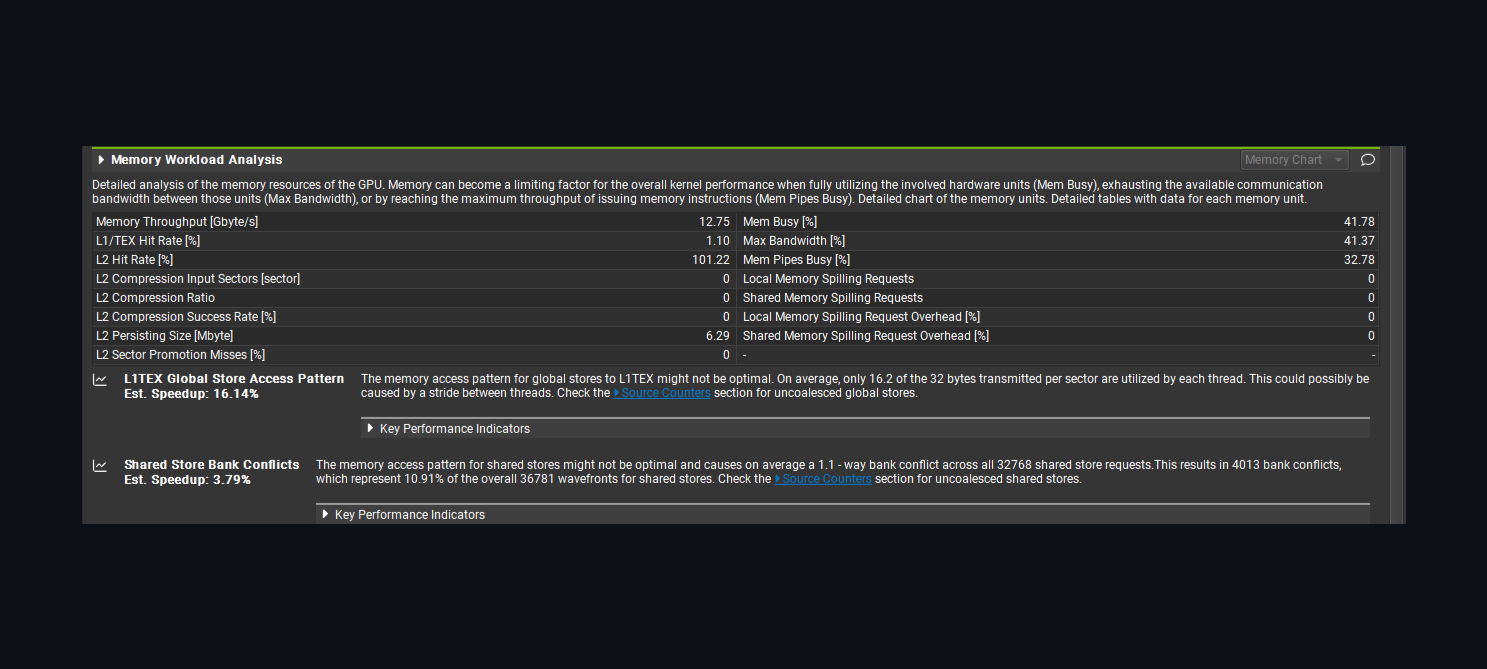
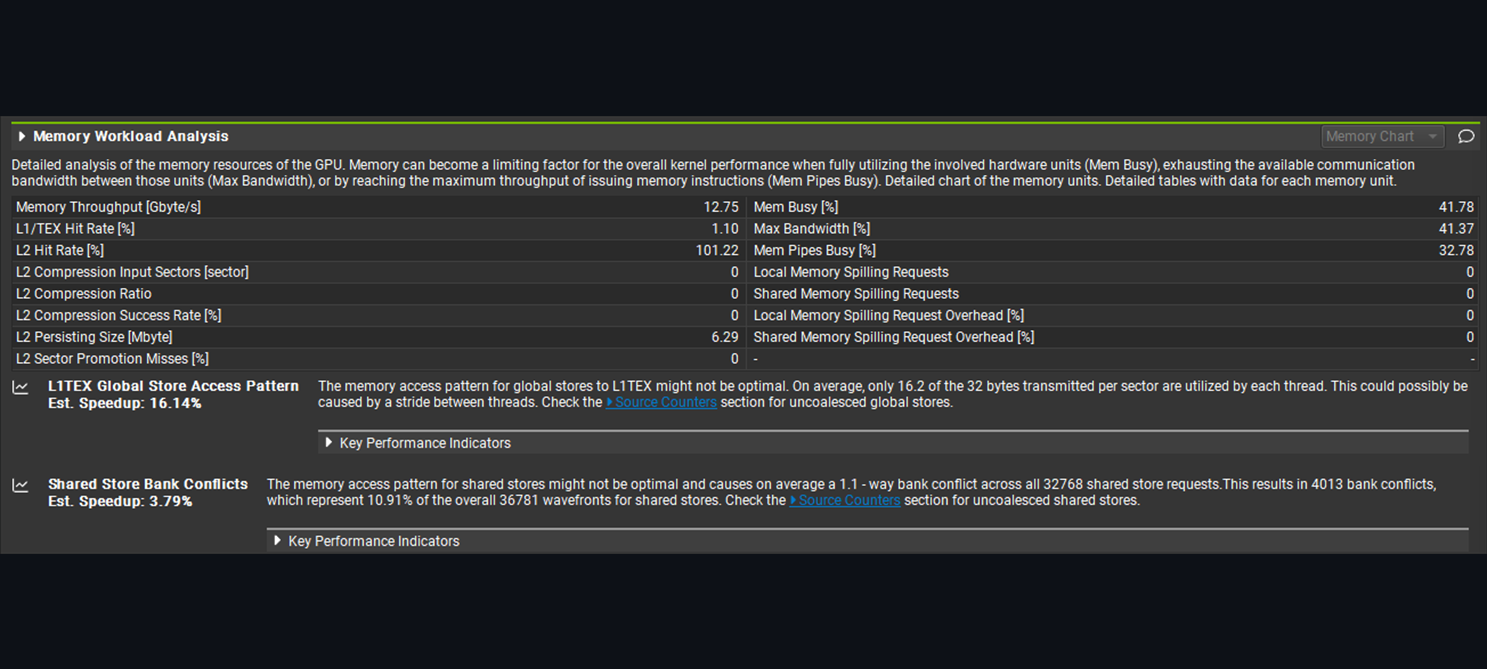
Replace cropped NCU comparison captures

Changed region(s): [[0.0, 0.1495, 1.0, 0.8371]]

diff --git a/README.md b/README.md
@@ -103,10 +103,10 @@ Actual Nsight Compute GUI captures:
 
 | Section | Before | After |
 |---|---|---|
-| GPU Speed of Light | <img src="docs/profiling/gpu_speed_of_light.png" width="420" height="122" alt="before GPU Speed of Light"> | <img src="docs/profiling/ncu_compare/after_gpu_sol.png" width="420" height="122" alt="after GPU Speed of Light"> |
-| Roofline | <img src="docs/profiling/roofline_fp32.png" width="420" height="185" alt="before roofline"> | <img src="docs/profiling/ncu_compare/after_roofline.png" width="420" height="185" alt="after roofline"> |
-| Memory Workload | <img src="docs/profiling/memory_workload.png" width="420" height="189" alt="before memory workload"> | <img src="docs/profiling/ncu_compare/after_memory_workload.png" width="420" height="189" alt="after memory workload"> |
-| Occupancy | <img src="docs/profiling/occupancy.png" width="420" height="81" alt="before occupancy"> | <img src="docs/profiling/ncu_compare/after_occupancy.png" width="420" height="81" alt="after occupancy"> |
+| GPU Speed of Light | <img src="docs/profiling/gpu_speed_of_light.png" width="420" alt="before GPU Speed of Light"> | <img src="docs/profiling/ncu_compare/after_gpu_sol.png" width="420" alt="after GPU Speed of Light"> |
+| Roofline | <img src="docs/profiling/roofline_fp32.png" width="420" alt="before roofline"> | <img src="docs/profiling/ncu_compare/after_roofline.png" width="420" alt="after roofline"> |
+| Memory Workload | <img src="docs/profiling/memory_workload.png" width="420" alt="before memory workload"> | <img src="docs/profiling/ncu_compare/after_memory_workload.png" width="420" alt="after memory workload"> |
+| Occupancy | <img src="docs/profiling/occupancy.png" width="420" alt="before occupancy"> | <img src="docs/profiling/ncu_compare/after_occupancy.png" width="420" alt="after occupancy"> |
 
 The full `.ncu-rep` files and text exports are kept under `docs/profiling/ncu/`
 and `docs/profiling/ncu_sections/`.
